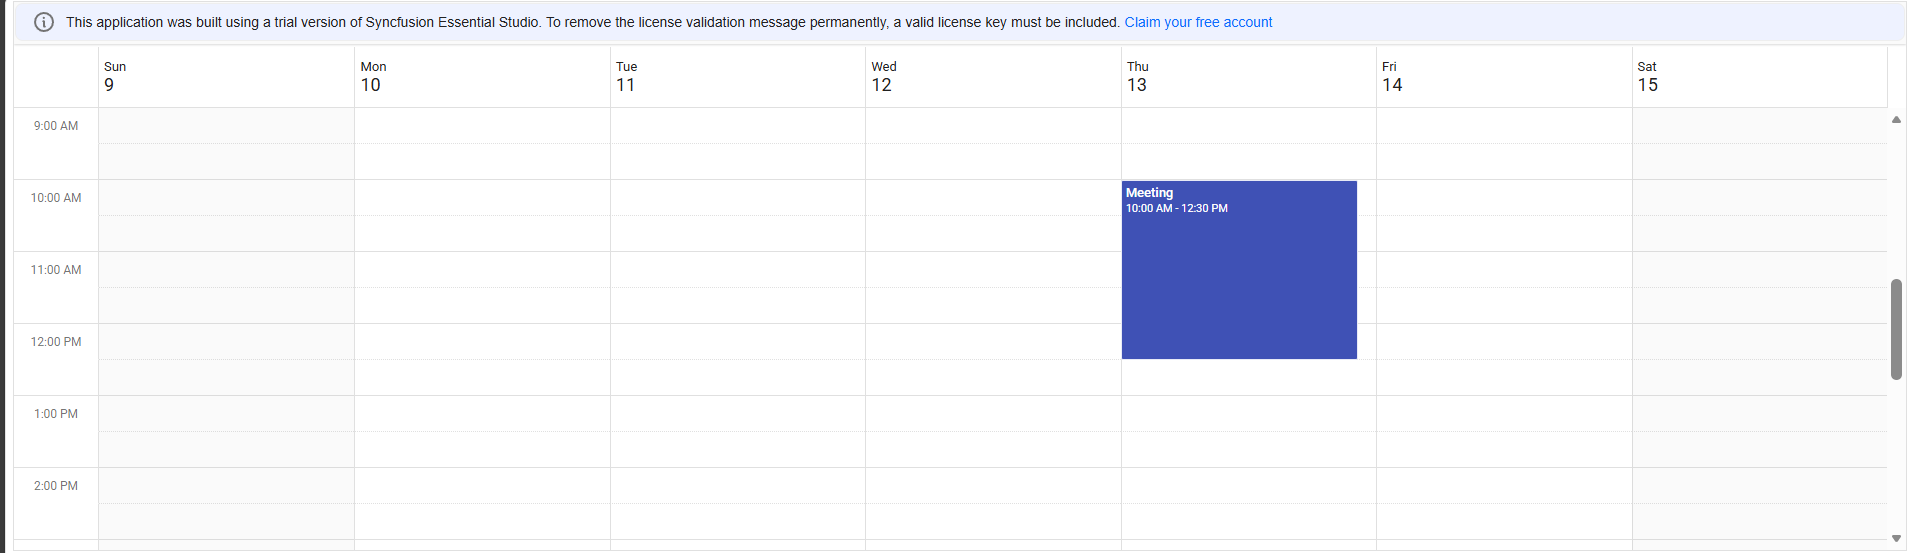
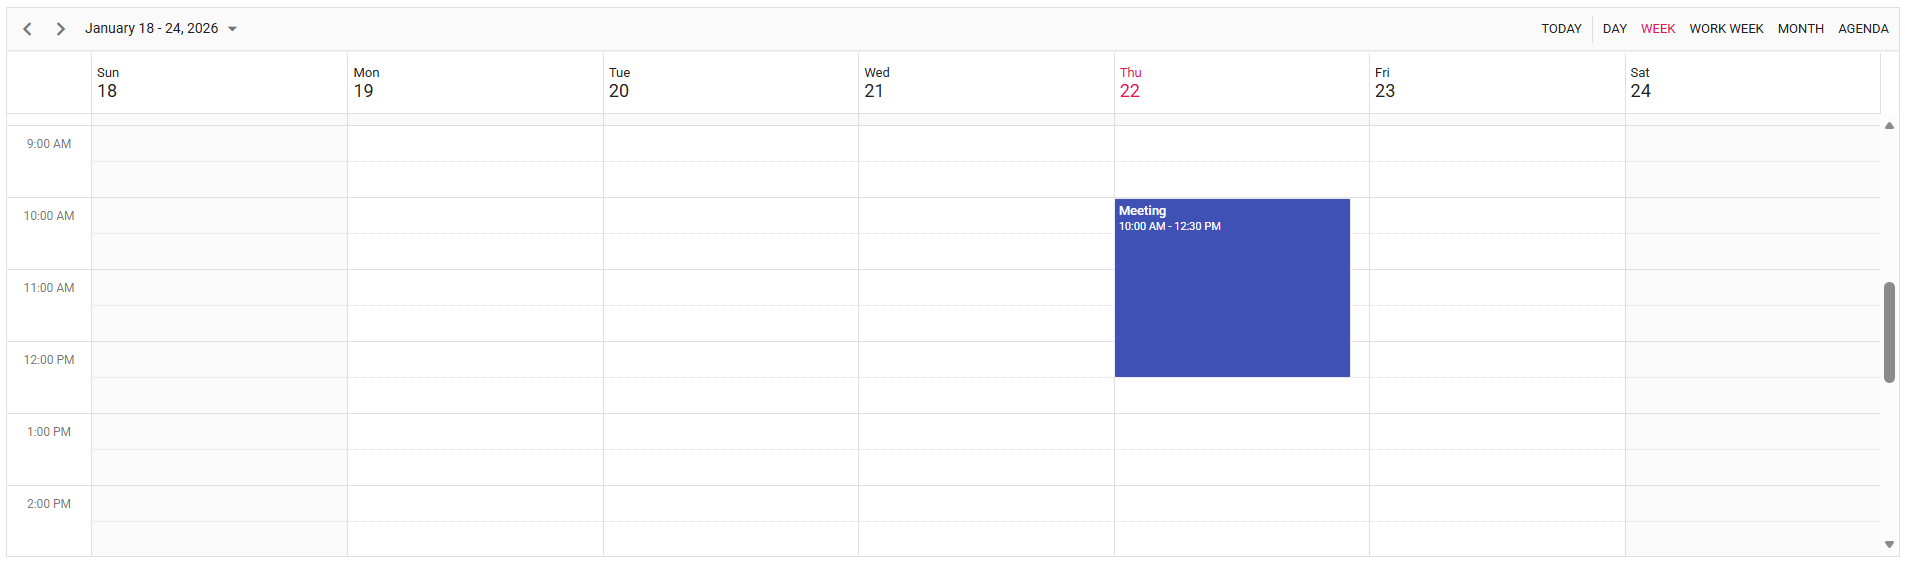
This message contains the Updated output, Readme file and index.html

diff --git a/README.md b/README.md
@@ -60,8 +60,12 @@ This repository contains a sample full-stack application demonstrating how to di
 
 
 ## Output
-![Frontend Preview](./Output.png)
+![Frontend Preview](./output.png)
 
 ## Troubleshooting
 - **Version error**: Check and install the current version as by prerequistes.
 - **Port already in use**: Clear all the previous running applications in both browser and command prompt.
+
+## Liscense
+**License banner**: Obtain and register a Syncfusion license key [link](https://ej2.syncfusion.com/angular/documentation/licensing/overview).
+ 
